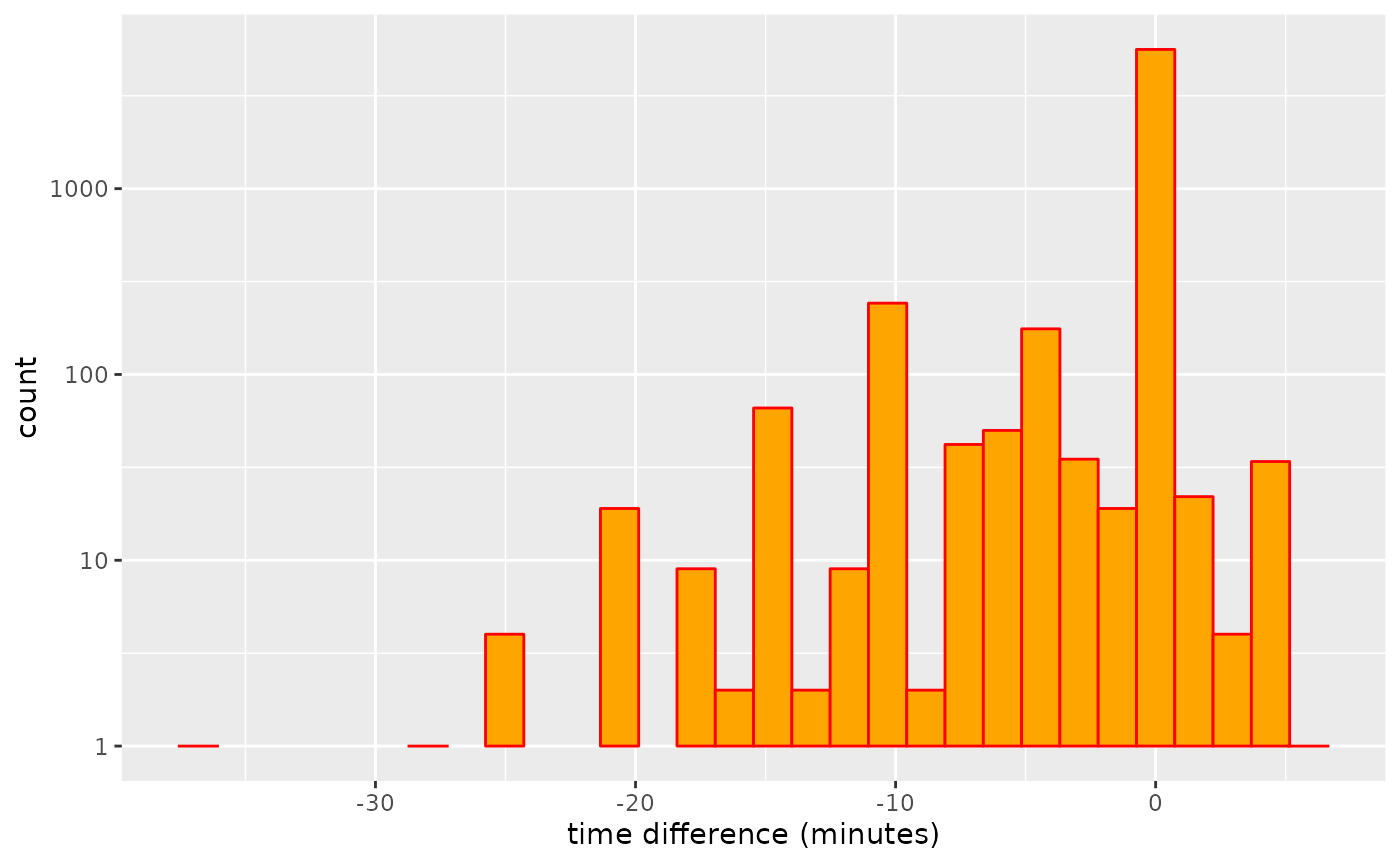
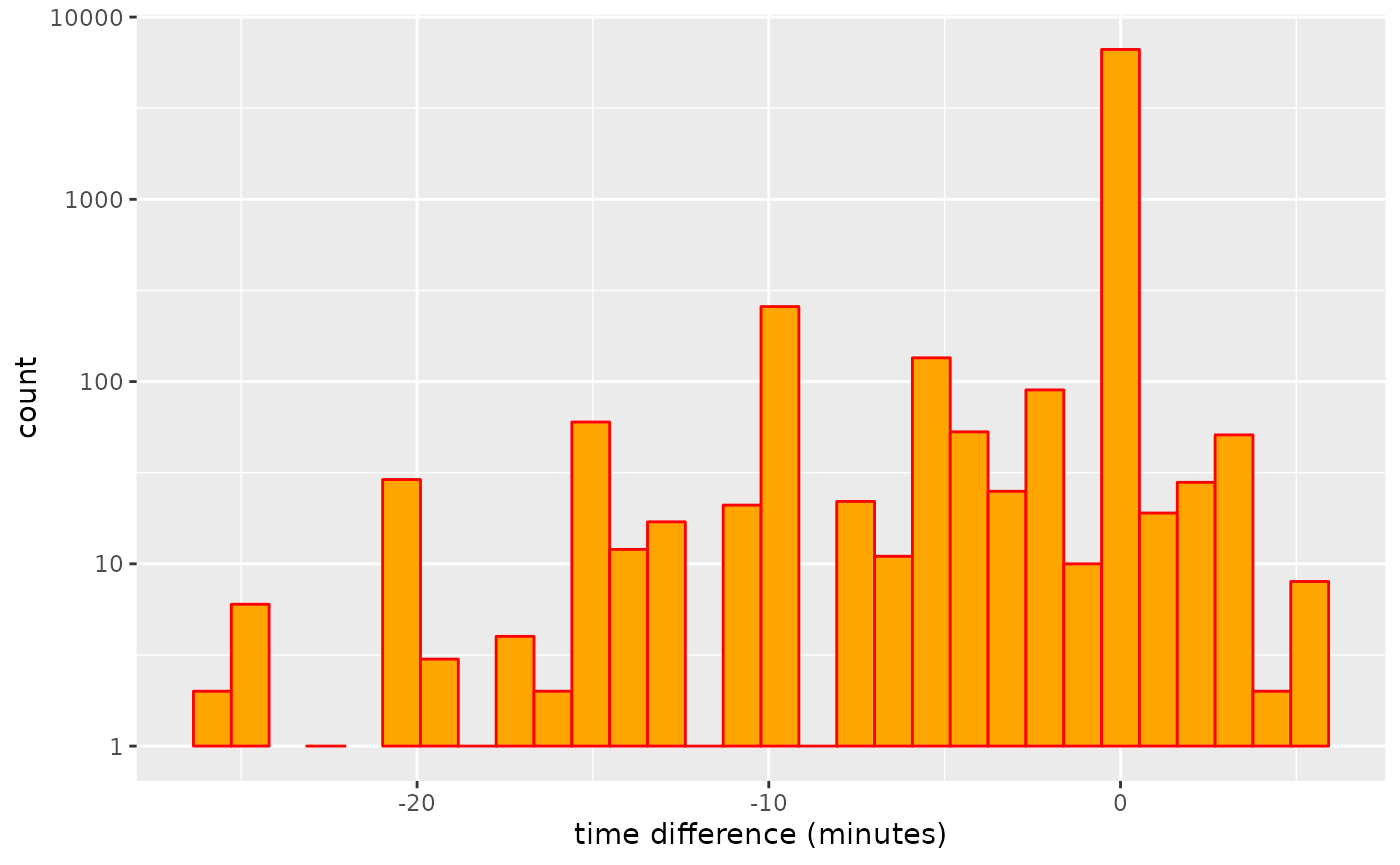
Deploying to gh-pages from @ ATFutures/gtfs-router@fe5fb08214e6d9ff41d10a85322d1f886a62762f 🚀

diff --git a/docs/articles/gtfsrouter.html b/docs/articles/gtfsrouter.html
@@ -33,7 +33,7 @@
       </button>
       <span class="navbar-brand">
         <a class="navbar-link" href="../index.html">gtfsrouter</a>
-        <span class="version label label-default" data-toggle="tooltip" data-placement="bottom" title="">0.0.5.121</span>
+        <span class="version label label-default" data-toggle="tooltip" data-placement="bottom" title="">0.0.5.123</span>
       </span>
     </div>
 
@@ -95,7 +95,7 @@
 <p>The one thing neither of these packages enable is the use of GTFS data for transit routing. The <code>gtfsrouter</code> package enables both one-to-one and one-to-many routing. Functionality is demonstrated here through the sample data set included with the package, provided by the “Verkehrsverbund Berlin-Brandenburg” (VBB; or Transport Network Berlin-Brandenburg). The <code>berlin_gtfs</code> data represents a reduced version of the full GTFS data, containing only six tables, and a timetable reduced to the single hour between 12:00-13:00. Like all GTFS software including <a href="https://github.com/r-transit/tidytransit" class="external-link"><code>tidytransit</code></a>, this package is designed to work directly with GTFS data in <code>.zip</code>-archived format, and so includes a helper function, <code><a href="../reference/berlin_gtfs_to_zip.html">berlin_gtfs_to_zip()</a></code>, which exports the internal data set to a locally-stored <code>.zip</code> archive in the <code><a href="https://rdrr.io/r/base/tempfile.html" class="external-link">tempdir()</a></code> of the current <strong>R</strong> session. These data can be exported and re-imported with:</p>
 <div class="sourceCode" id="cb1"><pre class="downlit sourceCode r">
 <code class="sourceCode R"><span><span class="fu"><a href="../reference/berlin_gtfs_to_zip.html">berlin_gtfs_to_zip</a></span><span class="op">(</span><span class="op">)</span></span></code></pre></div>
-<pre><code><span><span class="co">## [1] "/tmp/RtmpoKuBge/vbb.zip"</span></span></code></pre>
+<pre><code><span><span class="co">## [1] "/tmp/RtmpUKEf7L/vbb.zip"</span></span></code></pre>
 <div class="sourceCode" id="cb3"><pre class="downlit sourceCode r">
 <code class="sourceCode R"><span><span class="va">f</span> <span class="op">&lt;-</span> <span class="fu"><a href="https://rdrr.io/r/base/file.path.html" class="external-link">file.path</a></span> <span class="op">(</span><span class="fu"><a href="https://rdrr.io/r/base/tempfile.html" class="external-link">tempdir</a></span> <span class="op">(</span><span class="op">)</span>, <span class="st">"vbb.zip"</span><span class="op">)</span></span>
 <span><span class="fu"><a href="https://rdrr.io/r/base/files.html" class="external-link">file.exists</a></span> <span class="op">(</span><span class="va">f</span><span class="op">)</span></span></code></pre></div>
@@ -286,7 +286,7 @@
 <span>                day <span class="op">=</span> <span class="st">"Sunday"</span><span class="op">)</span></span>
 <span>    <span class="op">)</span></span></code></pre></div>
 <pre><code><span><span class="co">##    user  system elapsed </span></span>
-<span><span class="co">##   0.067   0.000   0.067</span></span></code></pre>
+<span><span class="co">##    0.06    0.00    0.06</span></span></code></pre>
 <div class="sourceCode" id="cb14"><pre class="downlit sourceCode r">
 <code class="sourceCode R"><span><span class="fu"><a href="https://rdrr.io/r/base/names.html" class="external-link">names</a></span> <span class="op">(</span><span class="va">gtfs</span><span class="op">)</span></span></code></pre></div>
 <pre><code><span><span class="co">## [1] "calendar"   "routes"     "trips"      "stop_times" "stops"     </span></span>
@@ -304,7 +304,7 @@
 <span>                         to <span class="op">=</span> <span class="va">to</span>,</span>
 <span>                         start_time <span class="op">=</span> <span class="st">"12:00:00"</span><span class="op">)</span><span class="op">)</span></span></code></pre></div>
 <pre><code><span><span class="co">##    user  system elapsed </span></span>
-<span><span class="co">##   0.050   0.000   0.049</span></span></code></pre>
+<span><span class="co">##   0.046   0.000   0.046</span></span></code></pre>
 <p>Note that the <code>day</code> parameter is used to extract the timetable, after which it is no longer required in the actual call to <code><a href="../reference/gtfs_route.html">gtfs_route()</a></code>.</p>
 </div>
 <div class="section level3">

diff --git a/docs/articles/transfers.html b/docs/articles/transfers.html
@@ -33,7 +33,7 @@
       </button>
       <span class="navbar-brand">
         <a class="navbar-link" href="../index.html">gtfsrouter</a>
-        <span class="version label label-default" data-toggle="tooltip" data-placement="bottom" title="">0.0.5.121</span>
+        <span class="version label label-default" data-toggle="tooltip" data-placement="bottom" title="">0.0.5.123</span>
       </span>
     </div>
 
@@ -447,7 +447,7 @@
 <span>    <span class="fu"><a href="https://ggplot2.tidyverse.org/reference/scale_continuous.html" class="external-link">scale_y_log10</a></span> <span class="op">(</span><span class="op">)</span> <span class="op">+</span></span>
 <span>    <span class="fu"><a href="https://ggplot2.tidyverse.org/reference/labs.html" class="external-link">xlab</a></span> <span class="op">(</span><span class="st">"time difference (minutes)"</span><span class="op">)</span></span></code></pre></div>
 <p><img src="transfers_files/figure-html/plot1-1.png" width="700"></p>
-<p>And these additional transfer possibilities can make a significant difference to estimated travel times. Note, however, that the travel times only changed for 706 stations, while the value of <code>nsame</code> value recording numbers of stations for which travel times did not change was 3,417. Travel times may also increase as additional transfers may be used to reduce numbers of connecting services required for a particular trip, and the algorithm generally searches for connections with minimal numbers of transfers.</p>
+<p>And these additional transfer possibilities can make a significant difference to estimated travel times. Note, however, that the travel times only changed for 835 stations, while the value of <code>nsame</code> value recording numbers of stations for which travel times did not change was 3,840. Travel times may also increase as additional transfers may be used to reduce numbers of connecting services required for a particular trip, and the algorithm generally searches for connections with minimal numbers of transfers.</p>
 <p>The following code the quantifies the overall effect of these reductions in travel times, measured as the linear reduction in comparison with travel times calculated using the original transfers table provided with the feed. The function also returns the proportion of all stations for which travel times were affected by the modified transfer table.</p>
 <div class="sourceCode" id="cb42"><pre class="downlit sourceCode r">
 <code class="sourceCode R"><span><span class="va">transfer_difference</span> <span class="op">&lt;-</span> <span class="kw">function</span> <span class="op">(</span><span class="va">gtfs</span>,</span>

diff --git a/docs/reference/gtfs_transfer_table.html b/docs/reference/gtfs_transfer_table.html
@@ -17,7 +17,7 @@
       </button>
       <span class="navbar-brand">
         <a class="navbar-link" href="../index.html">gtfsrouter</a>
-        <span class="version label label-default" data-toggle="tooltip" data-placement="bottom" title="">0.0.5.121</span>
+        <span class="version label label-default" data-toggle="tooltip" data-placement="bottom" title="">0.0.5.123</span>
       </span>
     </div>
 
@@ -112,7 +112,7 @@ throughout the underlying street network. If this is not provided as the
     <div id="ref-examples">
     <h2>Examples</h2>
     <div class="sourceCode"><pre class="sourceCode r"><code><span class="r-in"><span><span class="fu"><a href="berlin_gtfs_to_zip.html">berlin_gtfs_to_zip</a></span> <span class="op">(</span><span class="op">)</span></span></span>
-<span class="r-out co"><span class="r-pr">#&gt;</span> [1] "/tmp/RtmpeNQ1a9/vbb.zip"</span>
+<span class="r-out co"><span class="r-pr">#&gt;</span> [1] "/tmp/RtmptlylMK/vbb.zip"</span>
 <span class="r-in"><span><span class="va">f</span> <span class="op">&lt;-</span> <span class="fu"><a href="https://rdrr.io/r/base/file.path.html" class="external-link">file.path</a></span> <span class="op">(</span><span class="fu"><a href="https://rdrr.io/r/base/tempfile.html" class="external-link">tempdir</a></span> <span class="op">(</span><span class="op">)</span>, <span class="st">"vbb.zip"</span><span class="op">)</span></span></span>
 <span class="r-in"><span><span class="va">g</span> <span class="op">&lt;-</span> <span class="fu"><a href="extract_gtfs.html">extract_gtfs</a></span> <span class="op">(</span><span class="va">f</span>, quiet <span class="op">=</span> <span class="cn">TRUE</span><span class="op">)</span></span></span>
 <span class="r-in"><span><span class="va">g</span> <span class="op">&lt;-</span> <span class="fu">gtfs_transfer_table</span> <span class="op">(</span><span class="va">g</span>, d_limit <span class="op">=</span> <span class="fl">200</span><span class="op">)</span></span></span>

diff --git a/docs/reference/gtfs_route.html b/docs/reference/gtfs_route.html
@@ -18,7 +18,7 @@ a specified time."><!-- mathjax --><script src="https://cdnjs.cloudflare.com/aja
       </button>
       <span class="navbar-brand">
         <a class="navbar-link" href="../index.html">gtfsrouter</a>
-        <span class="version label label-default" data-toggle="tooltip" data-placement="bottom" title="">0.0.5.121</span>
+        <span class="version label label-default" data-toggle="tooltip" data-placement="bottom" title="">0.0.5.123</span>
       </span>
     </div>
 
@@ -182,7 +182,7 @@ can be calculated by setting <code>earliest_arrival = FALSE</code>.</p>
     <div id="ref-examples">
     <h2>Examples</h2>
     <div class="sourceCode"><pre class="sourceCode r"><code><span class="r-in"><span><span class="fu"><a href="berlin_gtfs_to_zip.html">berlin_gtfs_to_zip</a></span> <span class="op">(</span><span class="op">)</span> <span class="co"># Write sample feed from Berlin, Germany to tempdir</span></span></span>
-<span class="r-out co"><span class="r-pr">#&gt;</span> [1] "/tmp/RtmpeNQ1a9/vbb.zip"</span>
+<span class="r-out co"><span class="r-pr">#&gt;</span> [1] "/tmp/RtmptlylMK/vbb.zip"</span>
 <span class="r-in"><span><span class="va">f</span> <span class="op">&lt;-</span> <span class="fu"><a href="https://rdrr.io/r/base/file.path.html" class="external-link">file.path</a></span> <span class="op">(</span><span class="fu"><a href="https://rdrr.io/r/base/tempfile.html" class="external-link">tempdir</a></span> <span class="op">(</span><span class="op">)</span>, <span class="st">"vbb.zip"</span><span class="op">)</span> <span class="co"># name of feed</span></span></span>
 <span class="r-in"><span><span class="va">gtfs</span> <span class="op">&lt;-</span> <span class="fu"><a href="extract_gtfs.html">extract_gtfs</a></span> <span class="op">(</span><span class="va">f</span><span class="op">)</span></span></span>
 <span class="r-msg co"><span class="r-pr">#&gt;</span> ▶<span style="color: #00BB00;"> Unzipping GTFS archive</span></span>

diff --git a/docs/articles/traveltimes.html b/docs/articles/traveltimes.html
@@ -33,7 +33,7 @@
       </button>
       <span class="navbar-brand">
         <a class="navbar-link" href="../index.html">gtfsrouter</a>
-        <span class="version label label-default" data-toggle="tooltip" data-placement="bottom" title="">0.0.5.121</span>
+        <span class="version label label-default" data-toggle="tooltip" data-placement="bottom" title="">0.0.5.123</span>
       </span>
     </div>
 
@@ -86,7 +86,7 @@
 <div class="sourceCode" id="cb1"><pre class="downlit sourceCode r">
 <code class="sourceCode R"><span><span class="kw"><a href="https://rdrr.io/r/base/library.html" class="external-link">library</a></span> <span class="op">(</span><span class="va"><a href="https://github.com/ATFutures/gtfs-router" class="external-link">gtfsrouter</a></span><span class="op">)</span></span>
 <span><span class="fu"><a href="../reference/berlin_gtfs_to_zip.html">berlin_gtfs_to_zip</a></span> <span class="op">(</span><span class="op">)</span></span></code></pre></div>
-<pre><code><span><span class="co">## [1] "/tmp/RtmpIw3Bc5/vbb.zip"</span></span></code></pre>
+<pre><code><span><span class="co">## [1] "/tmp/Rtmp2n4qBr/vbb.zip"</span></span></code></pre>
 <div class="sourceCode" id="cb3"><pre class="downlit sourceCode r">
 <code class="sourceCode R"><span><span class="va">f</span> <span class="op">&lt;-</span> <span class="fu"><a href="https://rdrr.io/r/base/file.path.html" class="external-link">file.path</a></span> <span class="op">(</span><span class="fu"><a href="https://rdrr.io/r/base/tempfile.html" class="external-link">tempdir</a></span> <span class="op">(</span><span class="op">)</span>, <span class="st">"vbb.zip"</span><span class="op">)</span></span>
 <span><span class="va">gtfs</span> <span class="op">&lt;-</span> <span class="fu"><a href="../reference/extract_gtfs.html">extract_gtfs</a></span> <span class="op">(</span><span class="va">f</span>, quiet <span class="op">=</span> <span class="cn">TRUE</span><span class="op">)</span></span>

diff --git a/docs/reference/berlin_gtfs.html b/docs/reference/berlin_gtfs.html
@@ -23,7 +23,7 @@ characters.'><!-- mathjax --><script src="https://cdnjs.cloudflare.com/ajax/libs
       </button>
       <span class="navbar-brand">
         <a class="navbar-link" href="../index.html">gtfsrouter</a>
-        <span class="version label label-default" data-toggle="tooltip" data-placement="bottom" title="">0.0.5.121</span>
+        <span class="version label label-default" data-toggle="tooltip" data-placement="bottom" title="">0.0.5.123</span>
       </span>
     </div>
 
@@ -96,7 +96,7 @@ for which no route is possible return <code>NULL</code>.</p>
     <div id="ref-examples">
     <h2>Examples</h2>
     <div class="sourceCode"><pre class="sourceCode r"><code><span class="r-in"><span><span class="fu"><a href="berlin_gtfs_to_zip.html">berlin_gtfs_to_zip</a></span> <span class="op">(</span><span class="op">)</span> <span class="co"># Write sample feed from Berlin, Germany to tempdir</span></span></span>
-<span class="r-out co"><span class="r-pr">#&gt;</span> [1] "/tmp/RtmpeNQ1a9/vbb.zip"</span>
+<span class="r-out co"><span class="r-pr">#&gt;</span> [1] "/tmp/RtmptlylMK/vbb.zip"</span>
 <span class="r-in"><span><span class="va">f</span> <span class="op">&lt;-</span> <span class="fu"><a href="https://rdrr.io/r/base/file.path.html" class="external-link">file.path</a></span> <span class="op">(</span><span class="fu"><a href="https://rdrr.io/r/base/tempfile.html" class="external-link">tempdir</a></span> <span class="op">(</span><span class="op">)</span>, <span class="st">"vbb.zip"</span><span class="op">)</span> <span class="co"># name of feed</span></span></span>
 <span class="r-in"><span><span class="va">gtfs</span> <span class="op">&lt;-</span> <span class="fu"><a href="extract_gtfs.html">extract_gtfs</a></span> <span class="op">(</span><span class="va">f</span><span class="op">)</span></span></span>
 <span class="r-msg co"><span class="r-pr">#&gt;</span> ▶<span style="color: #00BB00;"> Unzipping GTFS archive</span></span>

diff --git a/docs/reference/gtfs_timetable.html b/docs/reference/gtfs_timetable.html
@@ -17,7 +17,7 @@
       </button>
       <span class="navbar-brand">
         <a class="navbar-link" href="../index.html">gtfsrouter</a>
-        <span class="version label label-default" data-toggle="tooltip" data-placement="bottom" title="">0.0.5.121</span>
+        <span class="version label label-default" data-toggle="tooltip" data-placement="bottom" title="">0.0.5.123</span>
       </span>
     </div>
 
@@ -126,7 +126,7 @@ that case will generally take longer.</p>
     <div id="ref-examples">
     <h2>Examples</h2>
     <div class="sourceCode"><pre class="sourceCode r"><code><span class="r-in"><span><span class="fu"><a href="berlin_gtfs_to_zip.html">berlin_gtfs_to_zip</a></span> <span class="op">(</span><span class="op">)</span> <span class="co"># Write sample feed from Berlin, Germany to tempdir</span></span></span>
-<span class="r-out co"><span class="r-pr">#&gt;</span> [1] "/tmp/RtmpeNQ1a9/vbb.zip"</span>
+<span class="r-out co"><span class="r-pr">#&gt;</span> [1] "/tmp/RtmptlylMK/vbb.zip"</span>
 <span class="r-in"><span><span class="va">f</span> <span class="op">&lt;-</span> <span class="fu"><a href="https://rdrr.io/r/base/file.path.html" class="external-link">file.path</a></span> <span class="op">(</span><span class="fu"><a href="https://rdrr.io/r/base/tempfile.html" class="external-link">tempdir</a></span> <span class="op">(</span><span class="op">)</span>, <span class="st">"vbb.zip"</span><span class="op">)</span> <span class="co"># name of feed</span></span></span>
 <span class="r-in"><span><span class="va">gtfs</span> <span class="op">&lt;-</span> <span class="fu"><a href="extract_gtfs.html">extract_gtfs</a></span> <span class="op">(</span><span class="va">f</span><span class="op">)</span></span></span>
 <span class="r-msg co"><span class="r-pr">#&gt;</span> ▶<span style="color: #00BB00;"> Unzipping GTFS archive</span></span>

diff --git a/docs/reference/gtfs_traveltimes.html b/docs/reference/gtfs_traveltimes.html
@@ -18,7 +18,7 @@ other reachable station in a system."><!-- mathjax --><script src="https://cdnjs
       </button>
       <span class="navbar-brand">
         <a class="navbar-link" href="../index.html">gtfsrouter</a>
-        <span class="version label label-default" data-toggle="tooltip" data-placement="bottom" title="">0.0.5.121</span>
+        <span class="version label label-default" data-toggle="tooltip" data-placement="bottom" title="">0.0.5.123</span>
       </span>
     </div>
 
@@ -155,7 +155,7 @@ to reach all or most stations desired for a particular query, rather than set
     <div id="ref-examples">
     <h2>Examples</h2>
     <div class="sourceCode"><pre class="sourceCode r"><code><span class="r-in"><span><span class="fu"><a href="berlin_gtfs_to_zip.html">berlin_gtfs_to_zip</a></span> <span class="op">(</span><span class="op">)</span></span></span>
-<span class="r-out co"><span class="r-pr">#&gt;</span> [1] "/tmp/RtmpeNQ1a9/vbb.zip"</span>
+<span class="r-out co"><span class="r-pr">#&gt;</span> [1] "/tmp/RtmptlylMK/vbb.zip"</span>
 <span class="r-in"><span><span class="va">f</span> <span class="op">&lt;-</span> <span class="fu"><a href="https://rdrr.io/r/base/file.path.html" class="external-link">file.path</a></span> <span class="op">(</span><span class="fu"><a href="https://rdrr.io/r/base/tempfile.html" class="external-link">tempdir</a></span> <span class="op">(</span><span class="op">)</span>, <span class="st">"vbb.zip"</span><span class="op">)</span></span></span>
 <span class="r-in"><span><span class="va">g</span> <span class="op">&lt;-</span> <span class="fu"><a href="extract_gtfs.html">extract_gtfs</a></span> <span class="op">(</span><span class="va">f</span><span class="op">)</span></span></span>
 <span class="r-msg co"><span class="r-pr">#&gt;</span> ▶<span style="color: #00BB00;"> Unzipping GTFS archive</span></span>

diff --git a/docs/reference/extract_gtfs.html b/docs/reference/extract_gtfs.html
@@ -17,7 +17,7 @@
       </button>
       <span class="navbar-brand">
         <a class="navbar-link" href="../index.html">gtfsrouter</a>
-        <span class="version label label-default" data-toggle="tooltip" data-placement="bottom" title="">0.0.5.121</span>
+        <span class="version label label-default" data-toggle="tooltip" data-placement="bottom" title="">0.0.5.123</span>
       </span>
     </div>
 
@@ -102,7 +102,7 @@ function to the two time columns of the "stop_times" table.</p>
     <div id="ref-examples">
     <h2>Examples</h2>
     <div class="sourceCode"><pre class="sourceCode r"><code><span class="r-in"><span><span class="fu"><a href="berlin_gtfs_to_zip.html">berlin_gtfs_to_zip</a></span> <span class="op">(</span><span class="op">)</span> <span class="co"># Write sample feed from Berlin, Germany to tempdir</span></span></span>
-<span class="r-out co"><span class="r-pr">#&gt;</span> [1] "/tmp/RtmpeNQ1a9/vbb.zip"</span>
+<span class="r-out co"><span class="r-pr">#&gt;</span> [1] "/tmp/RtmptlylMK/vbb.zip"</span>
 <span class="r-in"><span><span class="va">f</span> <span class="op">&lt;-</span> <span class="fu"><a href="https://rdrr.io/r/base/file.path.html" class="external-link">file.path</a></span> <span class="op">(</span><span class="fu"><a href="https://rdrr.io/r/base/tempfile.html" class="external-link">tempdir</a></span> <span class="op">(</span><span class="op">)</span>, <span class="st">"vbb.zip"</span><span class="op">)</span> <span class="co"># name of feed</span></span></span>
 <span class="r-in"><span><span class="va">gtfs</span> <span class="op">&lt;-</span> <span class="fu">extract_gtfs</span> <span class="op">(</span><span class="va">f</span><span class="op">)</span></span></span>
 <span class="r-msg co"><span class="r-pr">#&gt;</span> ▶<span style="color: #00BB00;"> Unzipping GTFS archive</span></span>

diff --git a/docs/reference/summary.gtfs.html b/docs/reference/summary.gtfs.html
@@ -17,7 +17,7 @@
       </button>
       <span class="navbar-brand">
         <a class="navbar-link" href="../index.html">gtfsrouter</a>
-        <span class="version label label-default" data-toggle="tooltip" data-placement="bottom" title="">0.0.5.121</span>
+        <span class="version label label-default" data-toggle="tooltip" data-placement="bottom" title="">0.0.5.123</span>
       </span>
     </div>
 
@@ -81,7 +81,7 @@
     <div id="ref-examples">
     <h2>Examples</h2>
     <div class="sourceCode"><pre class="sourceCode r"><code><span class="r-in"><span><span class="fu"><a href="berlin_gtfs_to_zip.html">berlin_gtfs_to_zip</a></span> <span class="op">(</span><span class="op">)</span></span></span>
-<span class="r-out co"><span class="r-pr">#&gt;</span> [1] "/tmp/RtmpeNQ1a9/vbb.zip"</span>
+<span class="r-out co"><span class="r-pr">#&gt;</span> [1] "/tmp/RtmptlylMK/vbb.zip"</span>
 <span class="r-in"><span><span class="va">f</span> <span class="op">&lt;-</span> <span class="fu"><a href="https://rdrr.io/r/base/file.path.html" class="external-link">file.path</a></span> <span class="op">(</span><span class="fu"><a href="https://rdrr.io/r/base/tempfile.html" class="external-link">tempdir</a></span> <span class="op">(</span><span class="op">)</span>, <span class="st">"vbb.zip"</span><span class="op">)</span></span></span>
 <span class="r-in"><span><span class="va">g</span> <span class="op">&lt;-</span> <span class="fu"><a href="extract_gtfs.html">extract_gtfs</a></span> <span class="op">(</span><span class="va">f</span><span class="op">)</span></span></span>
 <span class="r-msg co"><span class="r-pr">#&gt;</span> ▶<span style="color: #00BB00;"> Unzipping GTFS archive</span></span>

diff --git a/docs/authors.html b/docs/authors.html
@@ -17,7 +17,7 @@
       </button>
       <span class="navbar-brand">
         <a class="navbar-link" href="index.html">gtfsrouter</a>
-        <span class="version label label-default" data-toggle="tooltip" data-placement="bottom" title="">0.0.5.121</span>
+        <span class="version label label-default" data-toggle="tooltip" data-placement="bottom" title="">0.0.5.123</span>
       </span>
     </div>
 
@@ -74,13 +74,13 @@
 
     <p>Padgham M, Stepniak M (2022).
 <em>gtfsrouter: Routing with GTFS (General Transit Feed Specification) Data</em>.
-R package version 0.0.5.121, <a href="https://github.com/ATFutures/gtfs-router" class="external-link">https://github.com/ATFutures/gtfs-router</a>. 
+R package version 0.0.5.123, <a href="https://github.com/ATFutures/gtfs-router" class="external-link">https://github.com/ATFutures/gtfs-router</a>. 
 </p>
     <pre>@Manual{,
   title = {gtfsrouter: Routing with GTFS (General Transit Feed Specification) Data},
   author = {Mark Padgham and Marcin Stepniak},
   year = {2022},
-  note = {R package version 0.0.5.121},
+  note = {R package version 0.0.5.123},
   url = {https://github.com/ATFutures/gtfs-router},
 }</pre>
 

diff --git a/docs/reference/berlin_gtfs_to_zip.html b/docs/reference/berlin_gtfs_to_zip.html
@@ -18,7 +18,7 @@ a file named "vbb.zip" to tempdir().'><!-- mathjax --><script src="https://cdnjs
       </button>
       <span class="navbar-brand">
         <a class="navbar-link" href="../index.html">gtfsrouter</a>
-        <span class="version label label-default" data-toggle="tooltip" data-placement="bottom" title="">0.0.5.121</span>
+        <span class="version label label-default" data-toggle="tooltip" data-placement="bottom" title="">0.0.5.123</span>
       </span>
     </div>
 
